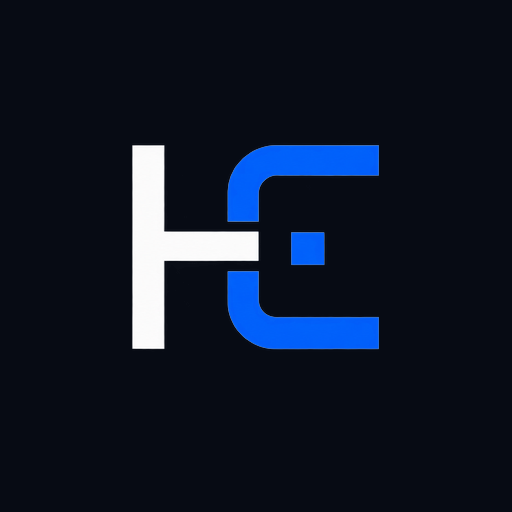
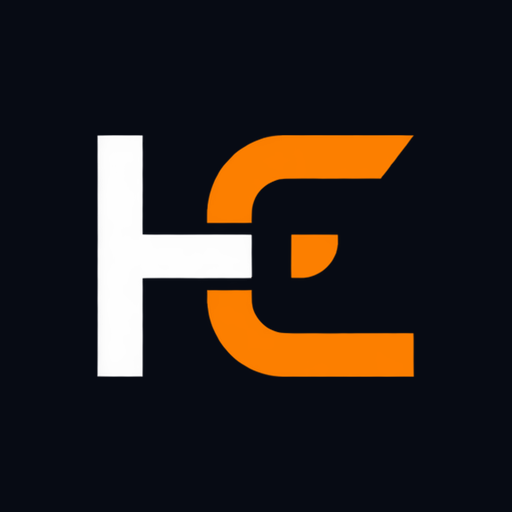
Add files via upload

Changed region(s): [[0.1875, 0.25, 0.8125, 0.75], [0.5625, 0.4375, 0.6875, 0.5625]]

diff --git a/homeco/branding.py b/homeco/branding.py
@@ -29,9 +29,9 @@ APP_NAME = "Homeco-Fernwartung"
 COMPANY = "HomeCo Computersysteme"
 WEBSITE = "https://www.homeco-computersysteme.de"
 
-# Homeco-Farben (aus Logo und Website)
-BLUE = "0061FB"        # Markenblau aus dem Logo
-BLUE_LIGHT = "4D8DFF"  # helleres Blau für die ID (besser lesbar auf Dunkel)
+# Homeco-Farben (aus dem Logo)
+ORANGE = "FF8000"        # Markenorange aus dem Logo
+ORANGE_LIGHT = "FF9A3D"  # helleres Orange für die ID (besser lesbar auf Dunkel)
 INK = "070B14"         # Fensterhintergrund (wie Website --ink)
 INK_2 = "0E1524"       # Flächen, Eingabefelder (--ink-2)
 INK_3 = "18213A"       # Hover (--ink-3)
@@ -121,22 +121,22 @@ fn read_custom_client_advanced_settings(''')
     print("Farben")
     dart = "flutter/lib/common.dart"
     patch(dart, "static const Color accent = Color(0xFF0071FF);",
-          f"static const Color accent = Color(0xFF{BLUE});")
+          f"static const Color accent = Color(0xFF{ORANGE});")
     patch(dart, "static const Color accent50 = Color(0x770071FF);",
-          f"static const Color accent50 = Color(0x77{BLUE});")
+          f"static const Color accent50 = Color(0x77{ORANGE});")
     patch(dart, "static const Color accent80 = Color(0xAA0071FF);",
-          f"static const Color accent80 = Color(0xAA{BLUE});")
+          f"static const Color accent80 = Color(0xAA{ORANGE});")
     patch(dart, "static const Color button = Color(0xFF2C8CFF);",
-          f"static const Color button = Color(0xFF{BLUE});")
+          f"static const Color button = Color(0xFF{ORANGE});")
     patch(dart, "static const Color idColor = Color(0xFF00B6F0);",
-          f"static const Color idColor = Color(0xFF{BLUE_LIGHT});")
+          f"static const Color idColor = Color(0xFF{ORANGE_LIGHT});")
     patch(dart, "Color(0xFF18191E)", f"Color(0xFF{INK})", count=0)
     patch(dart, "Color(0xFF24252B)", f"Color(0xFF{INK_2})", count=0)
     patch(dart, "hoverColor: Color.fromARGB(255, 45, 46, 53),", f"hoverColor: Color(0xFF{INK_3}),")
     patch_between(dart, "class MyTheme {", "static ThemeMode getThemeModePreference",
                   "primary: Colors.blue", "primary: accent")
 
-    print("ID groß in Homeco-Blau (wie im Vorbild)")
+    print("ID groß in Homeco-Orange (wie im Vorbild)")
     patch("flutter/lib/desktop/pages/desktop_home_page.dart",
           "                        style: TextStyle(\n                          fontSize: 22,\n                        ),",
           "                        style: TextStyle(\n                          fontSize: 24,\n"

diff --git a/ANLEITUNG.md b/ANLEITUNG.md
@@ -2,7 +2,7 @@
 
 Ergebnis: `Homeco-Fernwartung.exe` zum Download für Kunden. Das Programm
 startet ohne Installation, zeigt im dunklen Homeco-Design das Logo, die ID
-(groß in Homeco-Blau) und das Einmalpasswort, und verbindet sich nur mit dem
+(groß in Homeco-Orange) und das Einmalpasswort, und verbindet sich nur mit dem
 eigenen Homeco-Server. Kunden können damit selbst keine Verbindung aufbauen.
 
 Kosten: 0 € für die Software. Nötig sind ein Server (vorhandener VPS reicht)
@@ -72,7 +72,7 @@ Key = `HOMECO_KEY` eintragen. Dann ID + Passwort vom Kunden eingeben.
 - Name `Homeco-Fernwartung` (Fenster, Exe, Datei-Eigenschaften, Ordner in %APPDATA%)
 - Server + Schlüssel fest eingebaut (aus den GitHub-Secrets)
 - Nur eingehende Verbindungen, kein „Installieren“-Hinweis
-- Dunkles Design in Homeco-Farben: Hintergrund `#070B14`, Flächen `#0E1524`, Blau `#0061FB`
+- Dunkles Design in Homeco-Farben: Hintergrund `#070B14`, Flächen `#0E1524`, Orange `#FF8000`
 - Homeco-Logo oben, HE-Icon für Taskleiste, Tray und Exe
 - Zeile „Homeco Fernwartung · basiert auf RustDesk“ mit Link zur Homeco-Website
 
